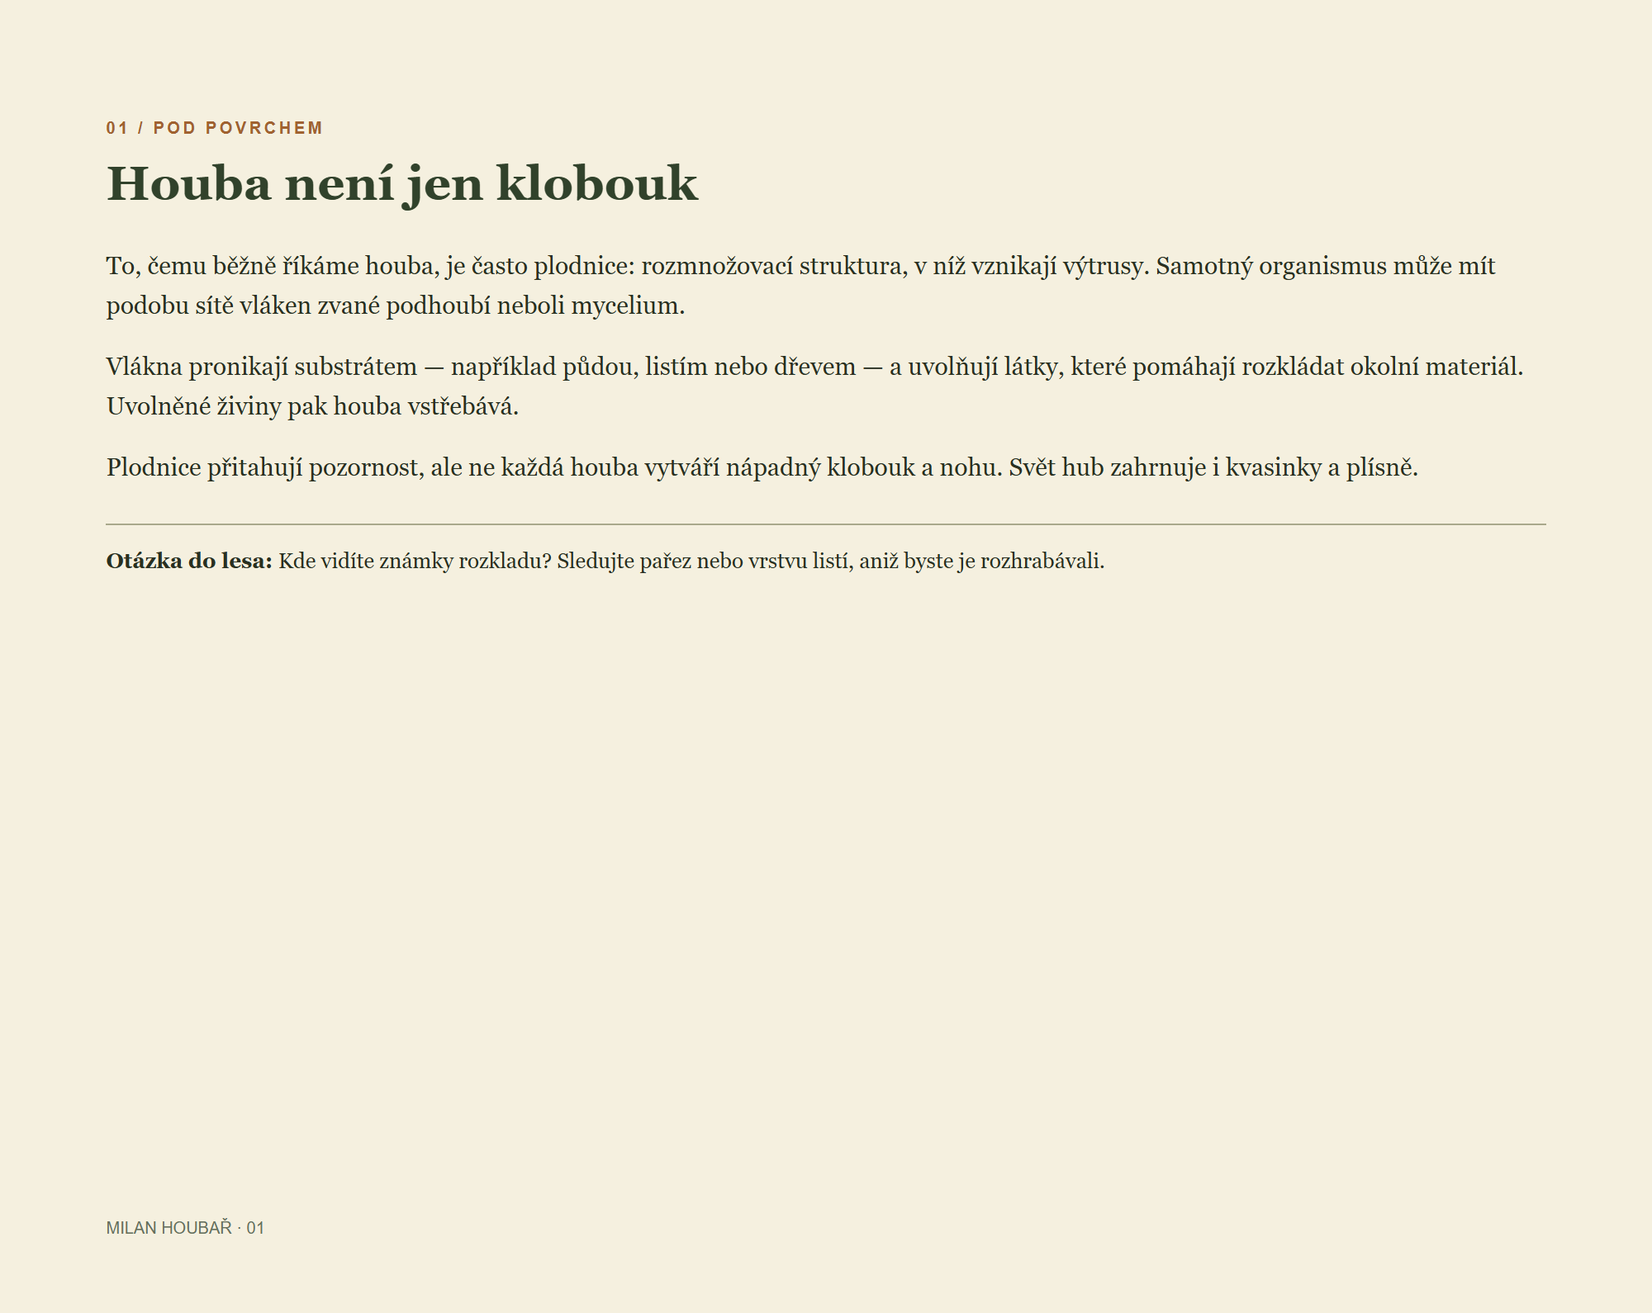
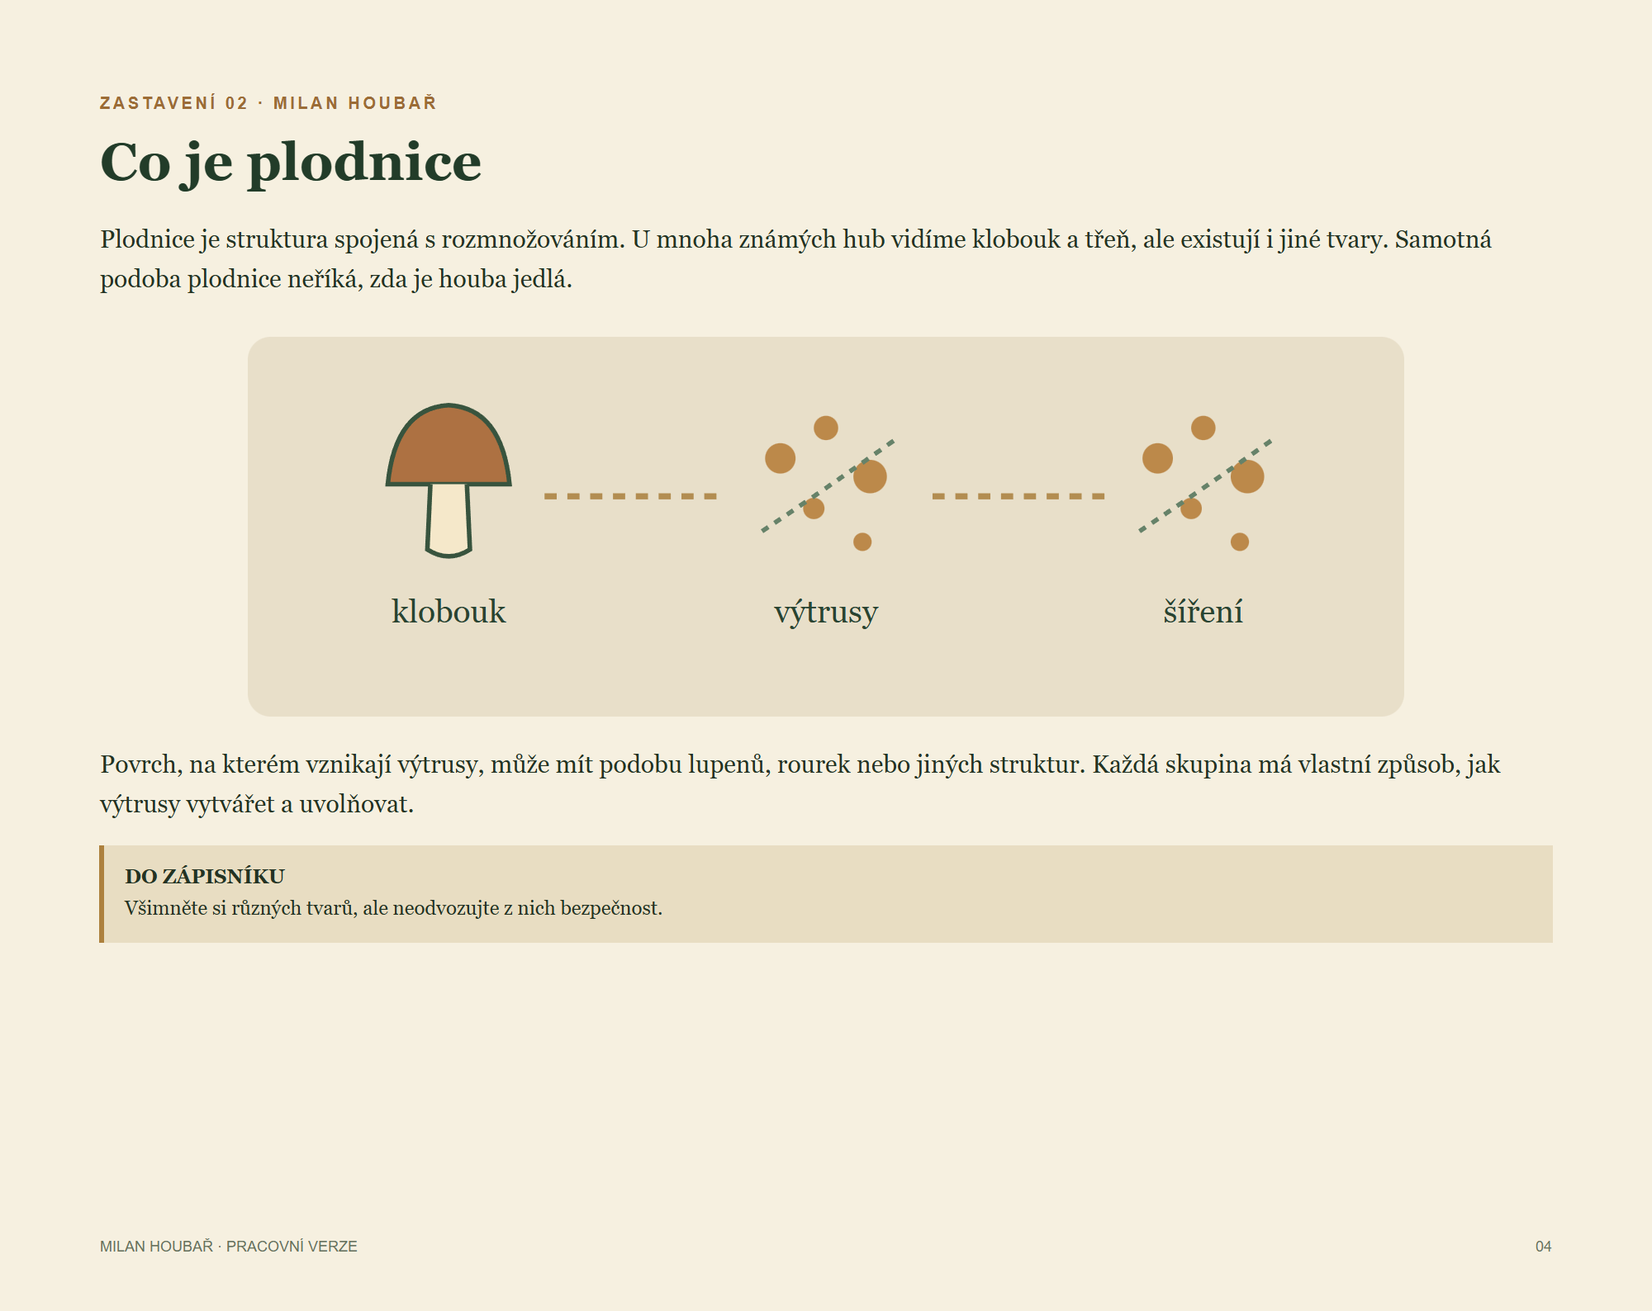
Atualiza amostras do livro ampliado

diff --git a/index.html b/index.html
@@ -2,11 +2,11 @@
 :root{--ink:#222e22;--cream:#f5edda;--gold:#d8a64c}*{box-sizing:border-box}html{scroll-behavior:smooth}body{margin:0;background:var(--cream);color:var(--ink);font:17px/1.65 'DM Sans',sans-serif;overflow-x:clip}img{display:block;max-width:100%}a{color:inherit}.wrap{width:min(1160px,calc(100% - 48px));margin:auto}.draft{text-align:center;background:#ecd09a;padding:8px;color:#403320;font-size:12px;font-weight:700}.nav{background:#18251a;color:#f4e8c9;border-bottom:1px solid #bba56a55}.nav .wrap{height:76px;display:flex;align-items:center;justify-content:space-between}.brand{font:700 16px 'Libre Baskerville',serif;text-decoration:none}.brand span{color:var(--gold);margin-right:8px}.navlinks{display:flex;align-items:center;gap:27px;font-size:12px;font-weight:700}.navlinks a{text-decoration:none}.navcta{border:1px solid #cba75e;padding:10px 16px}.hero{background:linear-gradient(90deg,#0e1a10ef 0%,#142015d9 47%,#1420167a 100%),url('img/floresta-gerada.png') center/cover;color:#f6efda;overflow:hidden}.hero .wrap{min-height:690px;display:grid;grid-template-columns:1.05fr .95fr;align-items:center;gap:40px;padding:64px 0 80px}.eyebrow,.kicker{font-size:11px;text-transform:uppercase;letter-spacing:.2em;font-weight:700;color:#d7ad62}h1,h2,h3{font-family:'Libre Baskerville',Georgia,serif}h1{font-size:clamp(48px,5.7vw,77px);line-height:1.13;letter-spacing:-.04em;margin:22px 0;color:#f7ecd2}h1 em{font-style:normal;color:#d6a348}.hero p{max-width:530px;color:#eee3c8;font-size:18px}.price{font:700 29px 'Libre Baskerville',serif}.price small{font:400 13px 'DM Sans',sans-serif}.btn{display:inline-flex;align-items:center;justify-content:center;min-height:53px;padding:14px 25px;background:var(--gold);color:#1e2418;border:1px solid var(--gold);text-decoration:none;font-size:12px;font-weight:700;letter-spacing:.1em;text-transform:uppercase}.btn:hover{background:#edc576}.micro{font-size:12px!important;color:#d1c6a7!important;margin:12px 0 0}.hero-actions{display:flex;gap:22px;align-items:center;flex-wrap:wrap}.book-stage{perspective:1100px;display:grid;place-items:center;position:relative;padding:20px}.book-stage:after{content:"";position:absolute;bottom:-18px;width:65%;height:20px;background:#0009;filter:blur(14px);border-radius:50%}.book{position:relative;width:min(330px,75%);transform:rotateY(-12deg) rotateZ(2deg);filter:drop-shadow(18px 30px 22px #0008);transform-style:preserve-3d}.book img{width:100%;border-radius:2px 5px 5px 2px}.book:before{content:"";position:absolute;top:0;bottom:0;left:-22px;width:22px;transform-origin:right;transform:rotateY(-68deg);background:linear-gradient(90deg,#122116,#725d37,#25301d);border-left:1px solid #d1b981}.book:after{content:"";position:absolute;right:-8px;top:8px;bottom:8px;width:8px;background:repeating-linear-gradient(#ded1b1 0 1px,#7a6d53 2px 3px)}.ribbon{background:#d5a24c;color:#202818}.ribbon .wrap{min-height:55px;display:flex;justify-content:space-between;gap:15px;align-items:center;font-size:10px;font-weight:700;letter-spacing:.14em;text-transform:uppercase}.section{padding:105px 0}.kicker{color:#94652f}.section h2{font-size:clamp(34px,4.4vw,52px);line-height:1.2;letter-spacing:-.03em;margin:14px 0 22px}.section h2 em{color:#987033;font-weight:400}.lead{font-size:19px;line-height:1.75}.intro{display:grid;grid-template-columns:1fr 1fr;gap:75px;align-items:center}.frame img{width:100%;aspect-ratio:1.18;object-fit:cover;border:7px solid #f4ead3;box-shadow:0 10px 34px #493f2525}.textlink{display:inline-flex;margin-top:12px;text-decoration:none;border-bottom:1px solid #8c6433;padding-bottom:4px;color:#75562c;font-weight:700;font-size:12px;text-transform:uppercase}.chapters{background:#e7dcc2}.chapters .head{display:grid;grid-template-columns:1fr 1fr;align-items:end;gap:30px}.chapter-list{margin-top:35px;border-top:1px solid #ab9b78}.chapter{display:grid;grid-template-columns:65px 1fr 1fr;gap:20px;align-items:baseline;padding:24px 0;border-bottom:1px solid #ab9b78}.chapter b{font-size:12px;color:#97652d}.chapter h3{font-size:22px;margin:0}.chapter p{margin:0;color:#5a604d;font-size:15px}.illustration{height:340px;background:url('img/prancha-gerada.png') center/cover;position:relative}.illustration:after{content:'ILUSTRAČNÍ VYOBRAZENÍ • NENÍ URČENO K URČOVÁNÍ HUB';position:absolute;right:12px;bottom:10px;background:#f4ebdcd9;padding:3px 7px;font-size:9px}.pages{background:#18271c;color:#f3e9d1;text-align:center}.pages .kicker{color:#d5ac6c}.pages .sub{max-width:600px;margin:0 auto;color:#d9d0b8}.pages-grid{display:grid;grid-template-columns:repeat(3,1fr);gap:25px;max-width:920px;margin:48px auto 36px;align-items:center}.pages-grid figure{margin:0;box-shadow:0 15px 35px #0008;transform:rotate(-2deg)}.pages-grid figure:nth-child(2){transform:translateY(-12px) rotate(1deg)}.pages-grid figure:nth-child(3){transform:rotate(2deg)}.pages .fine{font-size:12px;color:#d0c5a9}.guide{background:#f3ead7;overflow:hidden}.guide-grid{display:grid;grid-template-columns:.8fr 1.2fr;align-items:center;gap:80px}.portrait{height:490px;background:#d7c6a2;border-radius:50% 50% 5px 5px;overflow:hidden}.portrait img{height:110%;width:100%;object-fit:contain;object-position:bottom}.quote{font:italic 22px/1.6 'Libre Baskerville',serif;color:#74562f;border-top:1px solid #b9a987;border-bottom:1px solid #b9a987;margin:26px 0;padding:20px 0}.question{background:linear-gradient(90deg,#121f14ee,#121f1488),url('img/floresta-gerada.png') center/cover;color:#f7eed7}.question h2{max-width:750px}.question p{color:#e1d7bd;max-width:650px}.offer{background:#e9dec4}.offer-grid{display:grid;grid-template-columns:.95fr 1.05fr;gap:75px;align-items:center}.offer .book-stage{padding:30px}.offer .book{width:min(300px,75%)}.offer-list{list-style:none;padding:0;margin:20px 0}.offer-list li{padding:7px 0;border-bottom:1px solid #c8b997;font-size:15px}.offer-list li:before{content:'✦';color:#a07535;margin-right:12px}.notice{font-size:13px;color:#6c5839;border:1px solid #c7b38a;padding:13px 16px;margin-top:22px}.faq-grid{display:grid;grid-template-columns:.8fr 1.2fr;gap:60px}.faq details{border-top:1px solid #c1b394;padding:18px 0}.faq details:last-child{border-bottom:1px solid #c1b394}.faq summary{font:700 16px 'Libre Baskerville',serif;cursor:pointer}.faq details p{font-size:15px;color:#5c6251}.closing{background:#1c2c20;color:#f5ead2;text-align:center;padding:100px 0}.closing h2{font:700 clamp(34px,4vw,52px)/1.2 'Libre Baskerville';margin:15px auto;max-width:800px}.footer{background:#142017;color:#c7c0a8;padding:34px 0 100px;font-size:12px}.footer .wrap{display:flex;justify-content:space-between;gap:25px}.sticky{position:fixed;z-index:10;bottom:0;left:0;right:0;background:#17241b;color:#f6ebd0;border-top:1px solid #b0965e}.sticky .wrap{display:flex;align-items:center;justify-content:space-between;gap:20px;min-height:72px}.sticky strong{font:700 15px 'Libre Baskerville'}.sticky small{display:block;font-size:11px;color:#d4c7a8}.sticky .btn{min-height:42px;padding:10px 18px}.sticky .right{display:flex;align-items:center;gap:18px}.sticky .right span{white-space:nowrap;font:700 19px 'Libre Baskerville'}:focus-visible{outline:3px solid #d89f40;outline-offset:3px}
 @media(max-width:760px){.wrap{width:min(100% - 34px,600px)}.nav .wrap{height:62px}.navlinks a:not(.navcta){display:none}.hero .wrap{display:flex;flex-direction:column;align-items:stretch;gap:8px;padding:60px 0 55px}.hero h1{font-size:clamp(42px,11vw,64px)}.hero p{font-size:16px}.book-stage{padding:25px 0 12px}.book-stage .book{width:min(255px,65%)}.ribbon .wrap{justify-content:center;flex-wrap:wrap;padding:12px 0}.ribbon span:nth-child(n+6){display:none}.section{padding:70px 0}.intro,.guide-grid,.offer-grid,.faq-grid,.chapters .head{grid-template-columns:1fr;gap:28px}.intro-copy{order:-1}.chapter{grid-template-columns:40px 1fr;gap:10px}.chapter p{grid-column:2}.illustration{height:240px}.pages-grid{gap:9px;margin:30px auto}.portrait{height:380px;max-width:340px;width:100%;margin:auto}.footer .wrap{display:block}.sticky strong{font-size:12px}.sticky .right{gap:8px}.sticky .right span{font-size:14px}.sticky .btn{font-size:10px;padding:9px}.sticky small{font-size:10px}}@media(max-width:380px){.sticky .right span{display:none}.brand{font-size:13px}}@media(prefers-reduced-motion:reduce){html{scroll-behavior:auto}}
 </style></head><body><div class="draft">NÁVRH K REVIZI · Kniha ani platba zatím nejsou dostupné</div><header class="nav"><div class="wrap"><a class="brand" href="#"><span>✳</span>MILAN HOUBAŘ</a><nav class="navlinks" aria-label="Hlavní navigace"><a href="#obsah">O knize</a><a href="#ukazka">Ukázka</a><a href="#milan">Milanův svět</a><a class="navcta" href="#nabidka">Prohlédnout knihu →</a></nav></div></header><main>
-<section class="hero"><div class="wrap"><div><div class="eyebrow">Lesní zápisník · Digitální kniha v češtině</div><h1>Pod každým krokem<br><em>žije jiný svět.</em></h1><p>Objevte s Milanem neviditelný život hub, jejich překvapivá partnerství a příběhy, které se v lese odehrávají pod našima nohama.</p><div class="hero-actions"><a class="btn" href="#nabidka">Prohlédnout knihu →</a><span class="price">27,90 € <small>· plánovaná cena</small></span></div><p class="micro">PDF · 6 kapitol · na čtení doma i na cestách</p></div><div class="book-stage"><div class="book"><img src="img/capa-livro.jpg" alt="Obálka knihy Tajemný život hub s Milanem Houbařem"></div></div></div></section><div class="ribbon"><div class="wrap"><span>Podhoubí</span><span>✦</span><span>Výtrusy</span><span>✦</span><span>Život stromů</span><span>✦</span><span>Lesní zápisník</span><span>✦</span><span>Malý slovníček</span></div></div>
+<section class="hero"><div class="wrap"><div><div class="eyebrow">Lesní zápisník · Digitální kniha v češtině</div><h1>Pod každým krokem<br><em>žije jiný svět.</em></h1><p>Objevte s Milanem neviditelný život hub, jejich překvapivá partnerství a příběhy, které se v lese odehrávají pod našima nohama.</p><div class="hero-actions"><a class="btn" href="#nabidka">Prohlédnout knihu →</a><span class="price">27,90 € <small>· plánovaná cena</small></span></div><p class="micro">PDF · 18 zastavení · na čtení doma i na cestách</p></div><div class="book-stage"><div class="book"><img src="img/capa-livro.jpg" alt="Obálka knihy Tajemný život hub s Milanem Houbařem"></div></div></div></section><div class="ribbon"><div class="wrap"><span>Podhoubí</span><span>✦</span><span>Výtrusy</span><span>✦</span><span>Život stromů</span><span>✦</span><span>Lesní zápisník</span><span>✦</span><span>Malý slovníček</span></div></div>
 <section class="section"><div class="wrap intro"><div class="frame"><img src="img/floresta-gerada.png" alt="Ilustrační scéna hub v lesním podrostu" loading="lazy"></div><div class="intro-copy"><div class="kicker">Příběh, který začíná pod povrchem</div><h2>V lese vidíte klobouk.<br><em>Ale kde je zbytek?</em></h2><p class="lead">Pod listím a mezi kořeny se skrývá svět, který na běžné procházce snadno přehlédneme.</p><p>Houby rozkládají dřevo, šíří své výtrusy a některé spolupracují s rostlinami. Tahle malá kniha vás zve podívat se blíž — srozumitelně, zvídavě a bez zbytečných mýtů.</p><a class="textlink" href="#obsah">Co najdete uvnitř ↗</a></div></div></section>
-<section class="section chapters" id="obsah"><div class="wrap"><div class="head"><div><div class="kicker">Uvnitř knihy</div><h2>Šest zastavení<br><em>na cestě lesem.</em></h2></div><p>Od neviditelných vláken po vlastní zápisník pozorovatele. Každá kapitola otevírá další drobnou záhadu.</p></div><div class="chapter-list"><div class="chapter"><b>01</b><h3>Houba není jen klobouk</h3><p>Co se skrývá v půdě, listí a dřevě?</p></div><div class="chapter"><b>02</b><h3>Jak cestují výtrusy</h3><p>Jak se houby šíří krajinou.</p></div><div class="chapter"><b>03</b><h3>Život po pádu stromu</h3><p>Proč je starý kmen začátkem, ne koncem.</p></div><div class="chapter"><b>04</b><h3>Houby a kořeny</h3><p>Partnerství v půdě — a kde končí metafory.</p></div><div class="chapter"><b>05</b><h3>Pestrost vztahů</h3><p>Od spolupráce po život na úkor hostitele.</p></div><div class="chapter"><b>06</b><h3>Zápisník pozorovatele</h3><p>Otázky, které si vzít na příští procházku.</p></div></div></div></section>
-<div class="illustration" role="img" aria-label="Ilustrační botanická kresba hub"></div><section class="section pages" id="ukazka"><div class="wrap"><div class="kicker">Otevřete první stránky</div><h2>Nahlédněte <em>dovnitř.</em></h2><p class="sub">Tři skutečné stránky z připravovaného rukopisu. Klidné čtení, ke kterému se můžete vracet.</p><div class="pages-grid"><figure><a href="img/pagina-1.png" target="_blank" aria-label="Otevřít první ukázku ve větším rozlišení"><img src="img/pagina-1.png" alt="Ukázka kapitoly Houba není jen klobouk" loading="lazy"></a></figure><figure><a href="img/pagina-2.png" target="_blank" aria-label="Otevřít druhou ukázku ve větším rozlišení"><img src="img/pagina-2.png" alt="Ukázka kapitoly Život po pádu stromu" loading="lazy"></a></figure><figure><a href="img/pagina-3.png" target="_blank" aria-label="Otevřít třetí ukázku ve větším rozlišení"><img src="img/pagina-3.png" alt="Ukázka zápisníku pozorovatele" loading="lazy"></a></figure></div><p class="fine">Ukázky z pracovního PDF; obsah prochází kontrolou.</p><a href="#nabidka" class="btn">Zjistit více o knize →</a></div></section>
+<section class="section chapters" id="obsah"><div class="wrap"><div class="head"><div><div class="kicker">Uvnitř knihy</div><h2>Výběr z knihy<br><em>na cestě lesem.</em></h2></div><p>Od neviditelných vláken po vlastní zápisník pozorovatele. Každá kapitola otevírá další drobnou záhadu.</p></div><div class="chapter-list"><div class="chapter"><b>01</b><h3>Houba není jen klobouk</h3><p>Co se skrývá v půdě, listí a dřevě?</p></div><div class="chapter"><b>02</b><h3>Jak cestují výtrusy</h3><p>Jak se houby šíří krajinou.</p></div><div class="chapter"><b>03</b><h3>Život po pádu stromu</h3><p>Proč je starý kmen začátkem, ne koncem.</p></div><div class="chapter"><b>04</b><h3>Houby a kořeny</h3><p>Partnerství v půdě — a kde končí metafory.</p></div><div class="chapter"><b>05</b><h3>Pestrost vztahů</h3><p>Od spolupráce po život na úkor hostitele.</p></div><div class="chapter"><b>06</b><h3>Zápisník pozorovatele</h3><p>Otázky, které si vzít na příští procházku.</p></div></div></div></section>
+<div class="illustration" role="img" aria-label="Ilustrační botanická kresba hub"></div><section class="section pages" id="ukazka"><div class="wrap"><div class="kicker">Otevřete první stránky</div><h2>Nahlédněte <em>dovnitř.</em></h2><p class="sub">Tři skutečné stránky z připravovaného rukopisu. Klidné čtení, ke kterému se můžete vracet.</p><div class="pages-grid"><figure><a href="img/pagina-1.png" target="_blank" aria-label="Otevřít první ukázku ve větším rozlišení"><img src="img/pagina-1.png" alt="Ukázka kapitoly Co je plodnice" loading="lazy"></a></figure><figure><a href="img/pagina-2.png" target="_blank" aria-label="Otevřít druhou ukázku ve větším rozlišení"><img src="img/pagina-2.png" alt="Ukázka kapitoly Dřevo jako živé prostředí" loading="lazy"></a></figure><figure><a href="img/pagina-3.png" target="_blank" aria-label="Otevřít třetí ukázku ve větším rozlišení"><img src="img/pagina-3.png" alt="Ukázka kapitoly Jak vytvořit dobrý záznam" loading="lazy"></a></figure></div><p class="fine">Ukázky z pracovního PDF; obsah prochází kontrolou.</p><a href="#nabidka" class="btn">Zjistit více o knize →</a></div></section>
 <section class="section guide" id="milan"><div class="wrap guide-grid"><div class="portrait"><img src="img/milan.png" alt="Ilustrovaný vypravěč Milan Houbař" loading="lazy"></div><div><div class="kicker">Váš průvodce lesem</div><h2>Na chvíli zpomalte.<br><em>Les má co vyprávět.</em></h2><p class="lead">Milan Houbař je ilustrovaný vypravěč, který vás provází světem hub a malými objevy přírody.</p><p>Není potřeba znát všechna jména. Stačí zvednout oči od cesty, podívat se na starý pařez a začít se ptát.</p><div class="quote">„Když se díváte pozorněji, i obyčejná procházka může být začátkem velkého příběhu.“</div><small>— Milan Houbař, vypravěč kanálu</small></div></div></section>
 <section class="section question"><div class="wrap"><div class="eyebrow">Podívejte se znovu</div><h2>Co když je to nejzajímavější v lese právě to, co není vidět?</h2><p>V knize najdete jednoduché otázky a souvislosti, které vám pomohou všímat si hub v jejich přirozeném prostředí — nejen hledat další úlovek.</p><a class="btn" href="#nabidka">Objevit knihu →</a></div></section>
-<section class="section offer" id="nabidka"><div class="wrap offer-grid"><div class="book-stage"><div class="book"><img src="img/capa-livro.jpg" alt="Náhled obálky Tajemný život hub" loading="lazy"></div></div><div><div class="kicker">Kniha pro zvídavé</div><h2>Tajemný<br><em>život hub</em></h2><p>Malý průvodce velkým světem pod našima nohama. Připravovaný digitální e-book v češtině.</p><ul class="offer-list"><li>6 srozumitelných kapitol o životě hub</li><li>Otázky pro vlastní pozorování v přírodě</li><li>Praktický slovníček a tipy pro další čtení</li><li>Digitální formát PDF</li></ul><div class="price">27,90 € <small>· plánovaná cena</small></div><div class="notice"><strong>Brzy k dispozici.</strong> Kniha se právě připravuje a prochází kontrolou. Platba ani doručení zatím nejsou spuštěny.</div></div></div></section>
+<section class="section offer" id="nabidka"><div class="wrap offer-grid"><div class="book-stage"><div class="book"><img src="img/capa-livro.jpg" alt="Náhled obálky Tajemný život hub" loading="lazy"></div></div><div><div class="kicker">Kniha pro zvídavé</div><h2>Tajemný<br><em>život hub</em></h2><p>Malý průvodce velkým světem pod našima nohama. Připravovaný digitální e-book v češtině.</p><ul class="offer-list"><li>18 srozumitelných zastavení o životě hub</li><li>Otázky pro vlastní pozorování v přírodě</li><li>Praktický slovníček a tipy pro další čtení</li><li>Digitální formát PDF</li></ul><div class="price">27,90 € <small>· plánovaná cena</small></div><div class="notice"><strong>Brzy k dispozici.</strong> Kniha se právě připravuje a prochází kontrolou. Platba ani doručení zatím nejsou spuštěny.</div></div></div></section>
 <section class="section faq"><div class="wrap faq-grid"><div><div class="kicker">Před čtením</div><h2>Často kladené<br><em>otázky.</em></h2></div><div><details><summary>Je kniha určena začátečníkům?</summary><p>Ano. Vysvětluje základní souvislosti jednoduše a bez předchozích znalostí.</p></details><details><summary>Je to atlas jedlých hub?</summary><p>Ne. Text ani obrázky nejsou určeny k určování druhů ani jedlosti. Neznámé houby nikdy neochutnávejte.</p></details><details><summary>Jak knihu dostanu?</summary><p>Připravuje se digitální PDF. Způsob nákupu a doručení bude upřesněn po dokončení.</p></details><details><summary>V jakém jazyce kniha je?</summary><p>Kniha i tato stránka jsou v češtině. Platební stránka zatím není nastavena.</p></details><details><summary>Kdy bude kniha k dispozici?</summary><p>Po dokončení kontroly obsahu a nastavení prodeje. Datum zatím není stanoveno.</p></details></div></div></section><section class="closing"><div class="wrap"><div class="eyebrow">Ještě jedna procházka</div><h2>Les už nikdy nebude jen kulisa.</h2><p>Objevte příběhy, které se skrývají pod vašima nohama.</p><a class="btn" href="#nabidka">Prohlédnout knihu →</a></div></section></main><footer class="footer"><div class="wrap"><div>✳ MILAN HOUBAŘ · Tajemný život hub<br>Ilustrovaný vypravěč · pracovní verze</div><div>Ilustrace jsou pouze dekorativní, neslouží k určování hub.</div></div></footer><div class="sticky"><div class="wrap"><div><strong>Tajemný život hub</strong><small>Připravovaný e-book v češtině</small></div><div class="right"><span>27,90 €</span><a class="btn" href="#nabidka">O knize →</a></div></div></div></body></html>
